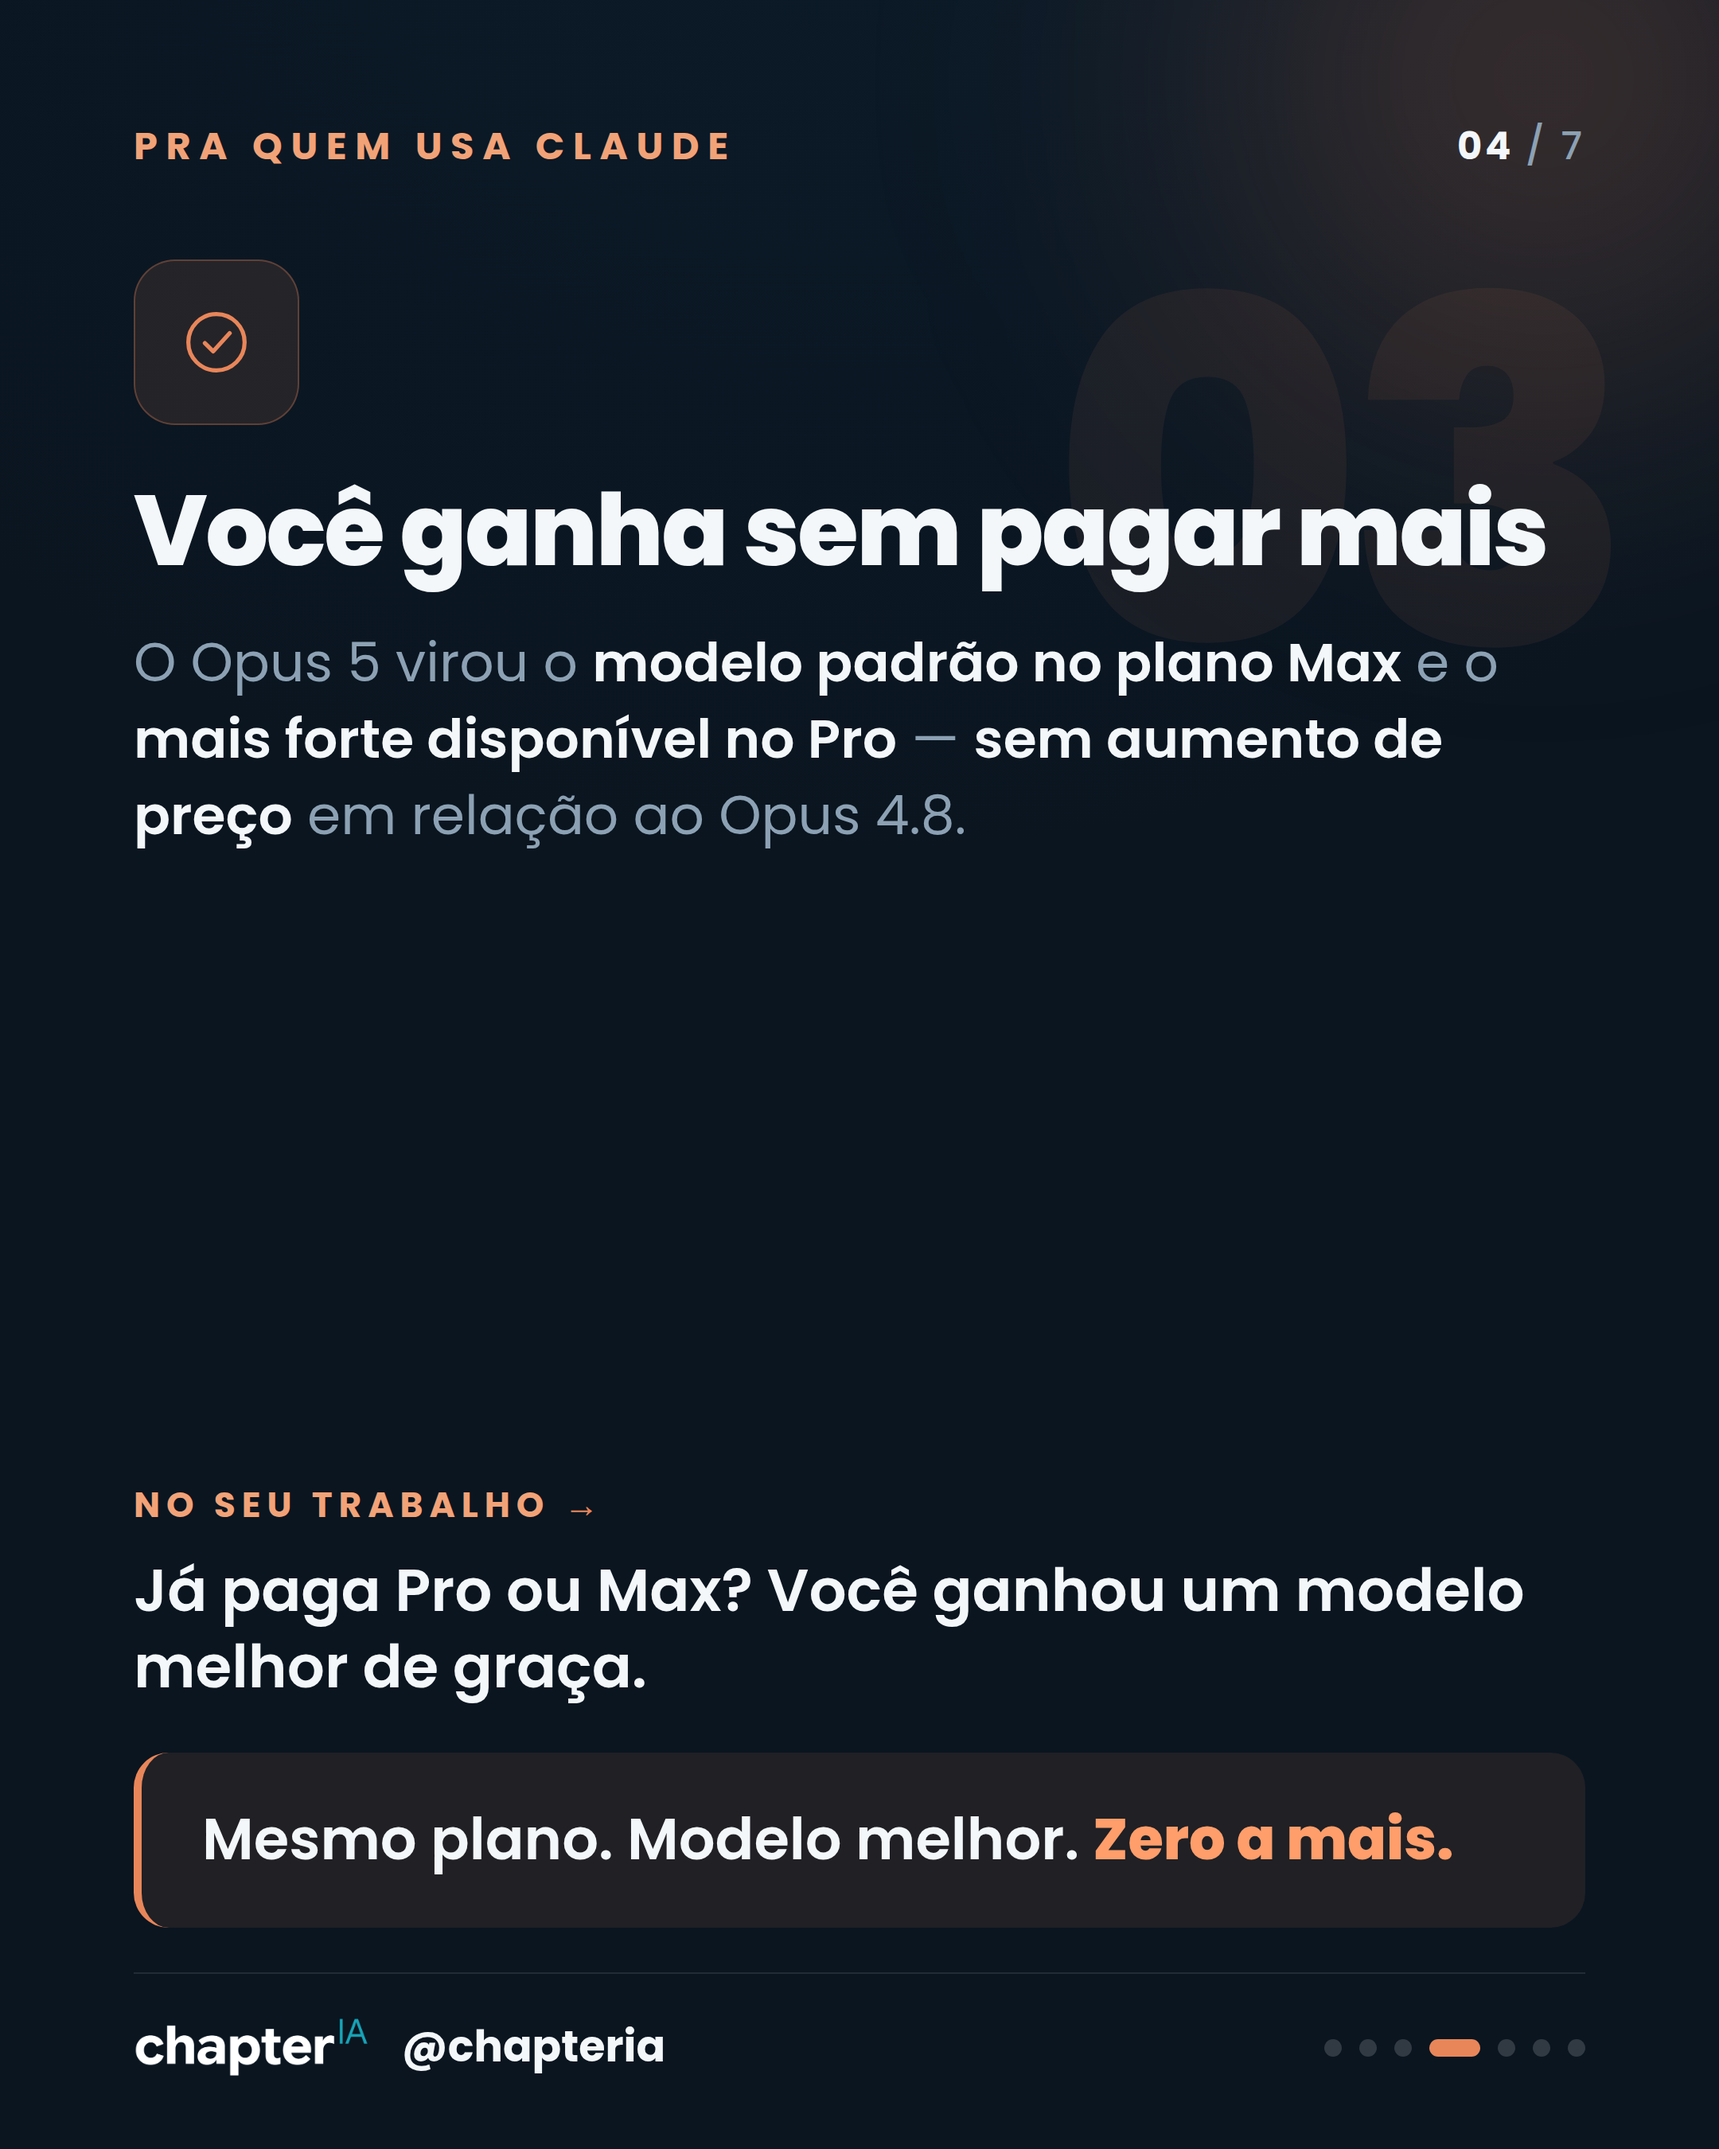
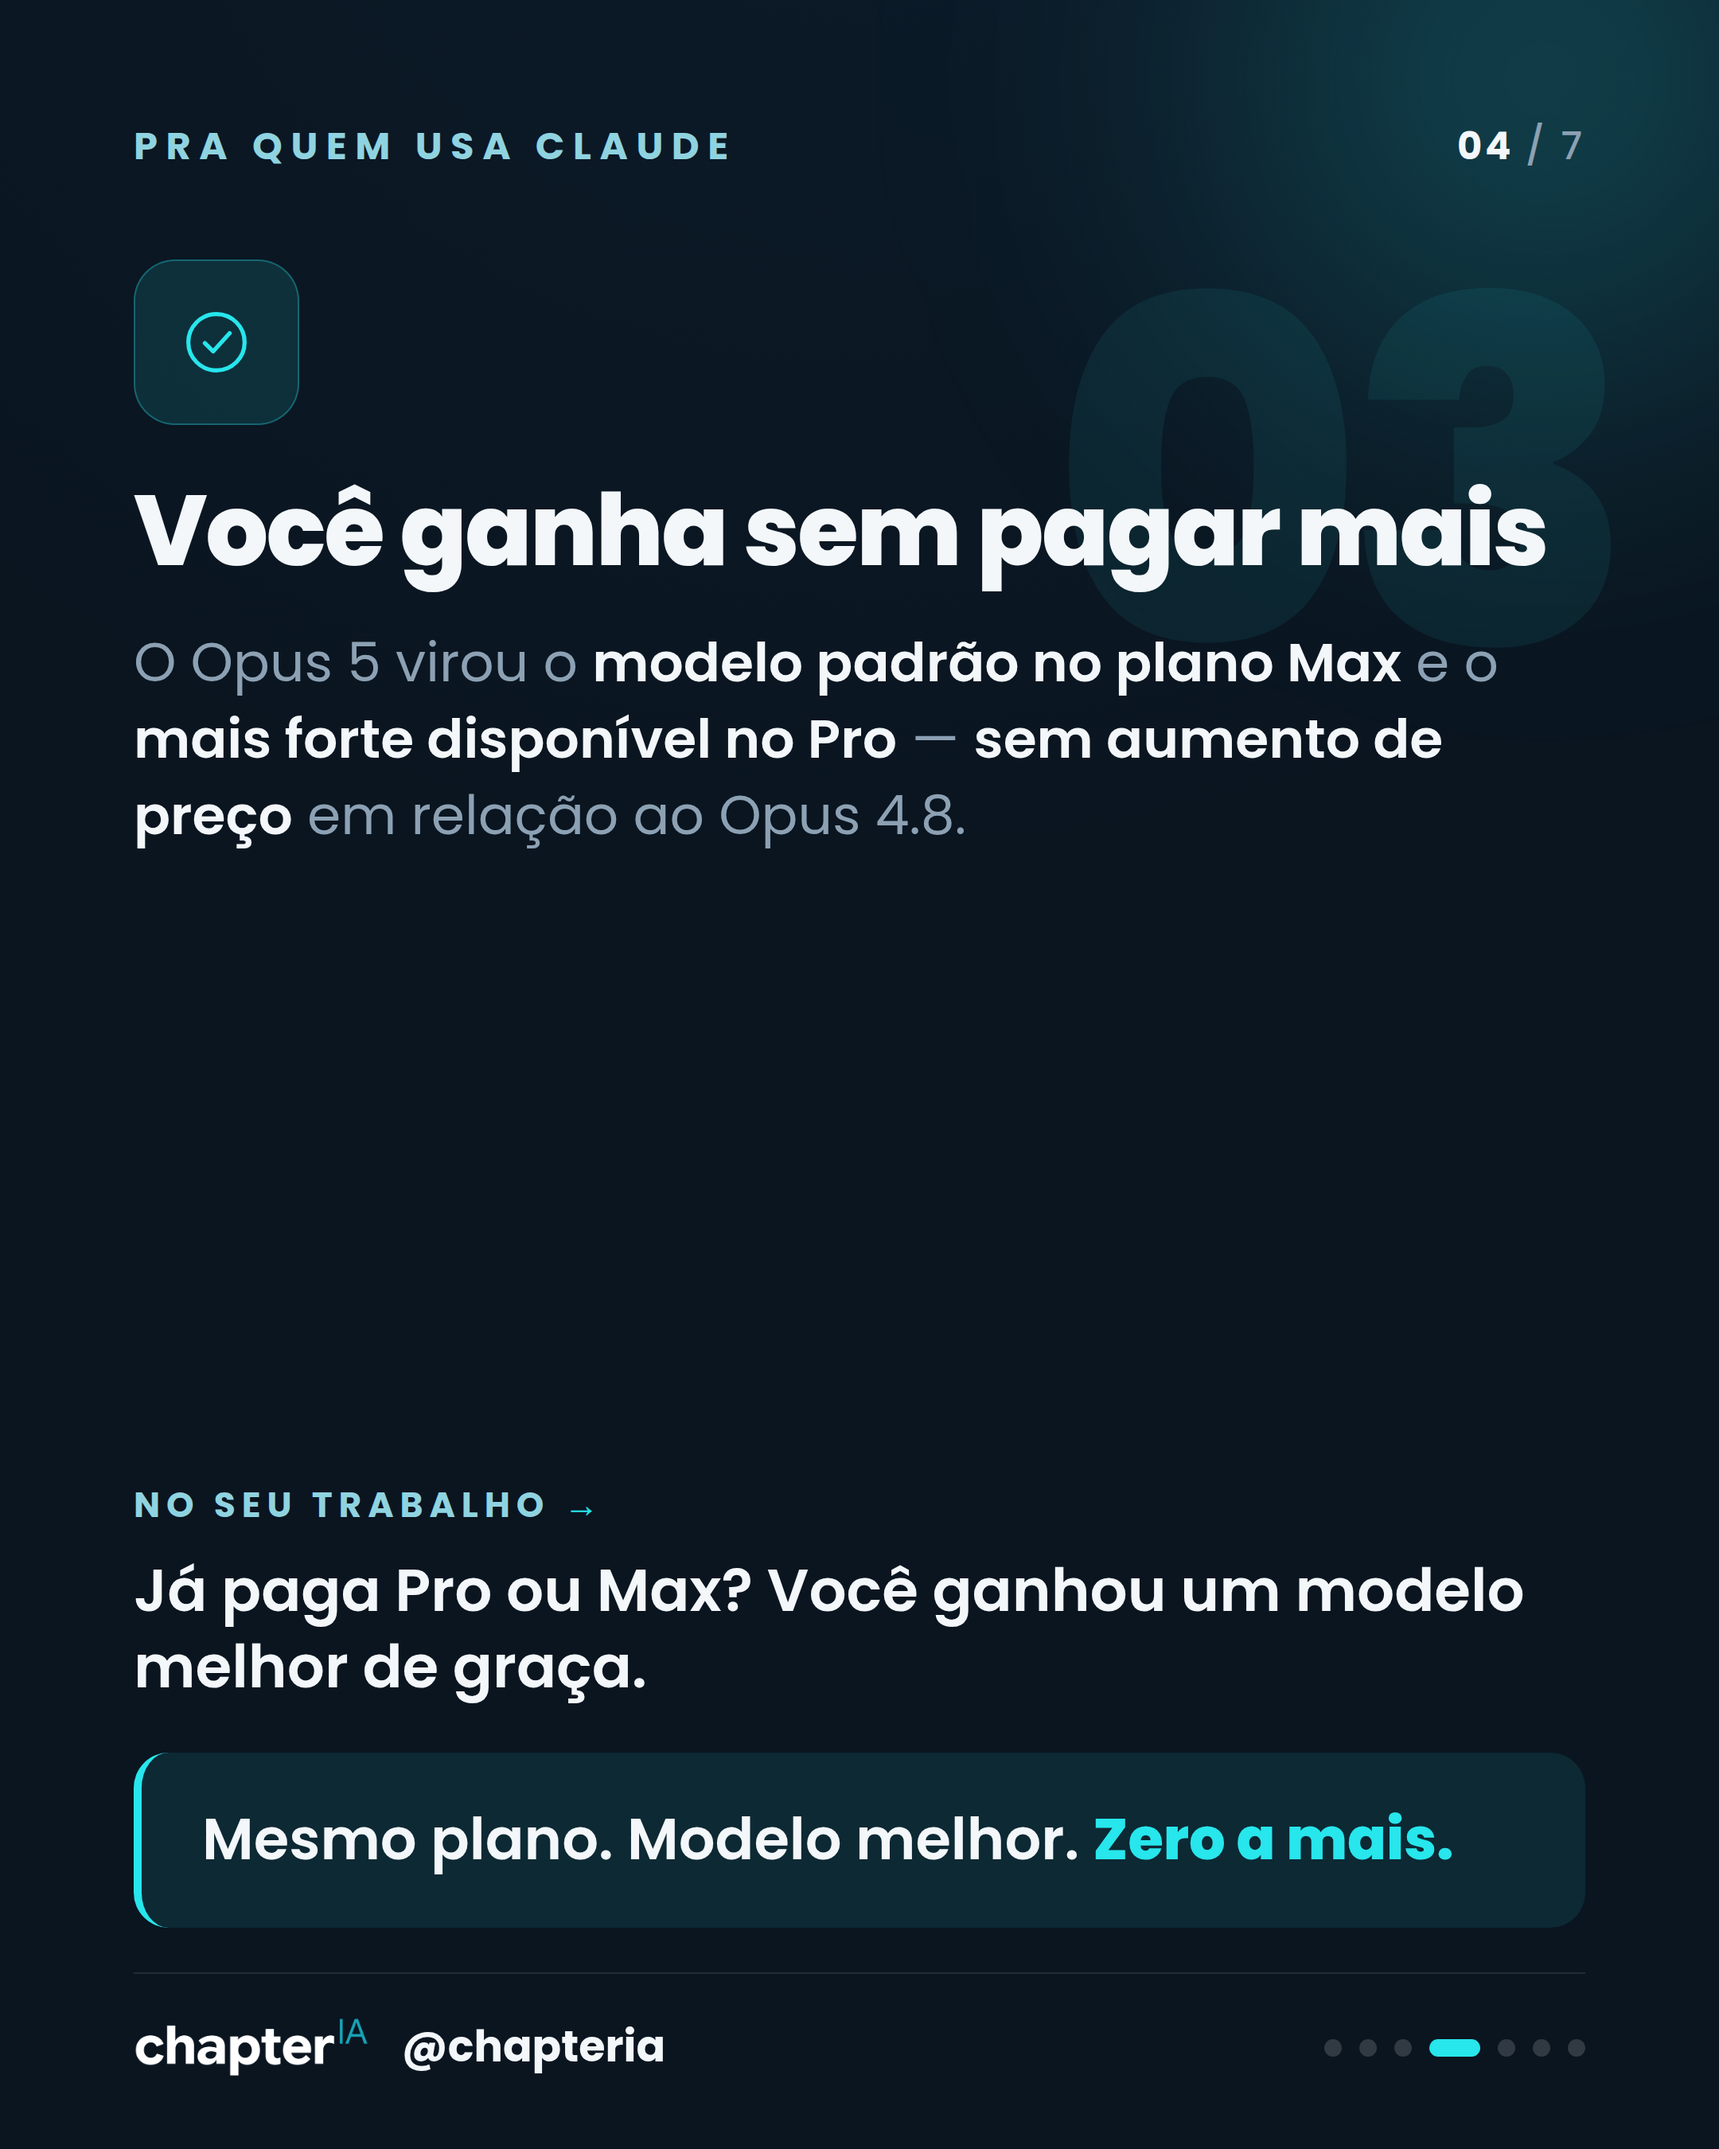
Re-tematiza carrossel Opus 5 para a paleta ChapterIA (ciano)
Troca o accent laranja pelo ciano/paraquedista da identidade ChapterIA (hero
orbital, destaques, tiles, before/after, botões e paginação), a pedido: manter
sempre a identidade visual da marca.

Claude-Session: https://claude.ai/code/session_01TRRjPqLtPPeRw63FEdxucr

diff --git a/social/posts/pauta-opus5-metade-preco/README.md b/social/posts/pauta-opus5-metade-preco/README.md
@@ -1,6 +1,6 @@
 # Pauta — "O modelo mais forte da Anthropic agora custa metade do preço"
 
-Carrossel premium (dark, accent laranja = peças de Claude) sobre o lançamento do
+Carrossel premium (dark, paleta ChapterIA: petróleo + ciano) sobre o lançamento do
 **Claude Opus 5**. Ângulo: o que muda **na prática** (não benchmarks) + a tese de
 que **IA boa está ficando barata**.
 
@@ -20,7 +20,7 @@ que **IA boa está ficando barata**.
 
 ## Legenda
 
-O modelo mais forte da Anthropic agora custa metade do preço. 🟠
+O modelo mais forte da Anthropic agora custa metade do preço. 🔷
 
 A Anthropic lançou o Claude Opus 5: um modelo que chega perto da inteligência do topo de linha (o Fable 5) pela metade do custo. É o 4º modelo da linha Claude 5 em menos de 2 meses — a IA saiu dos “grandes lançamentos” para melhorias rápidas em capacidade, custo e velocidade.
 
